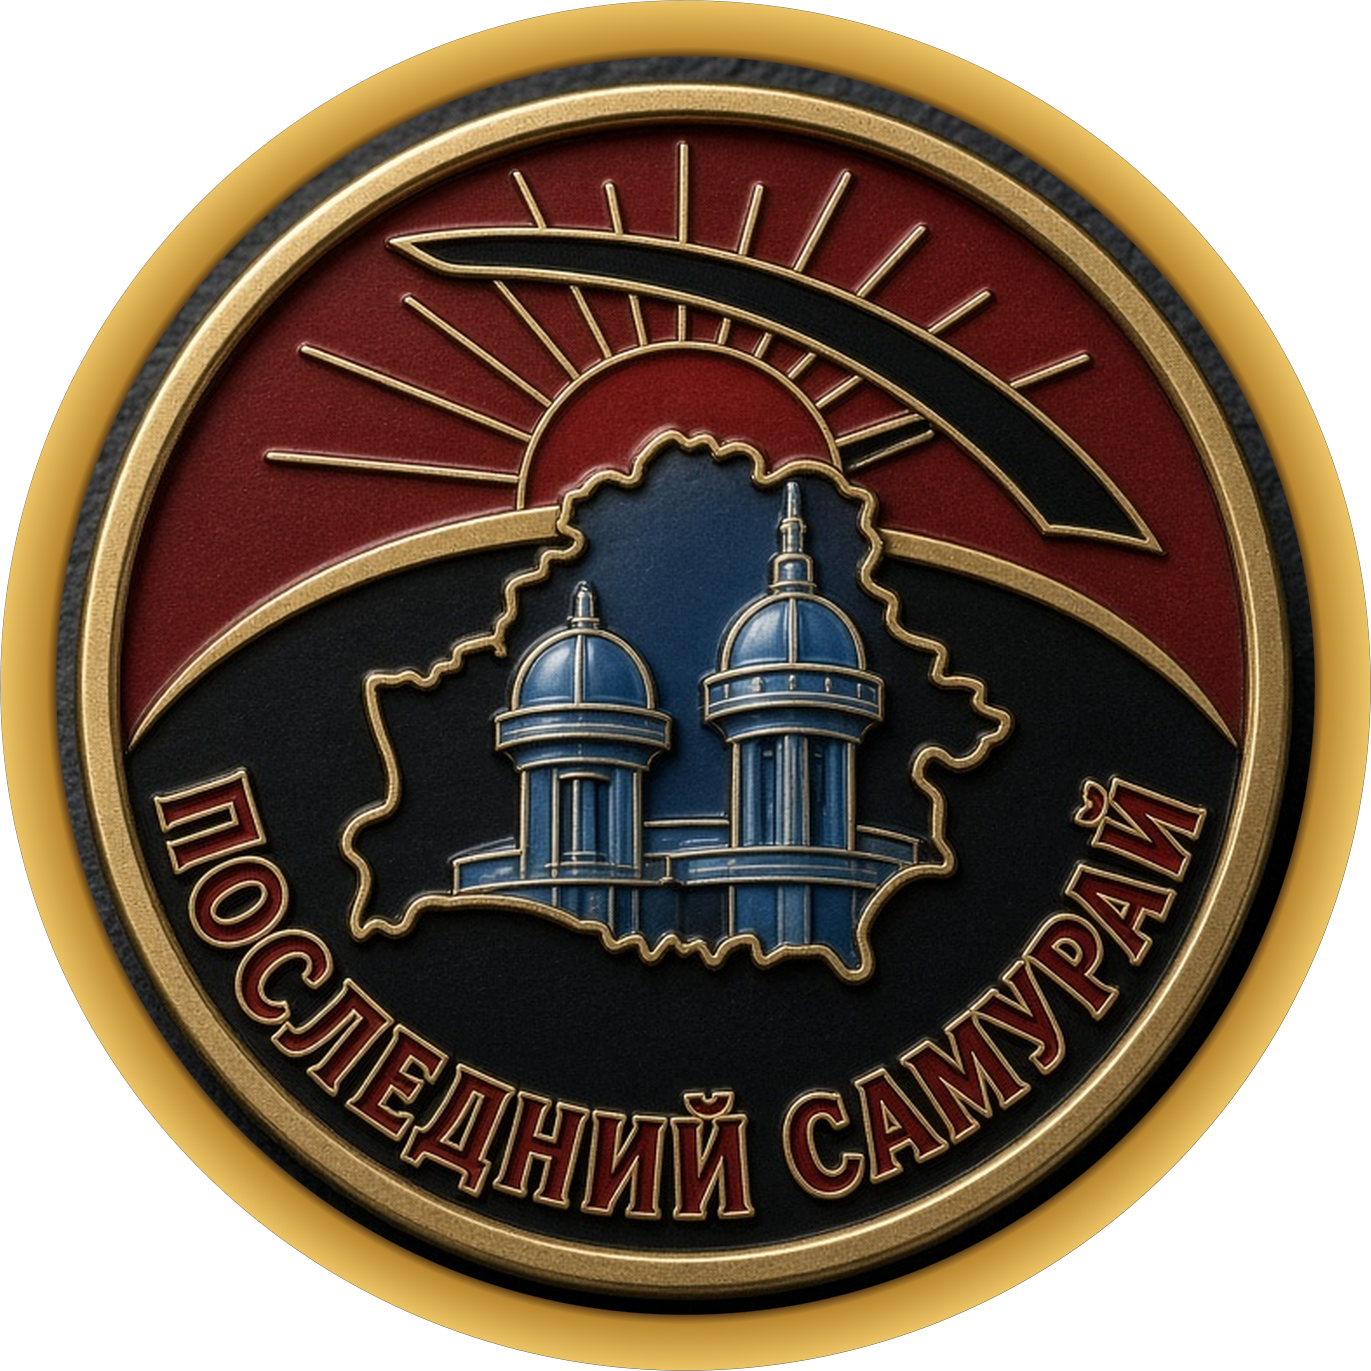
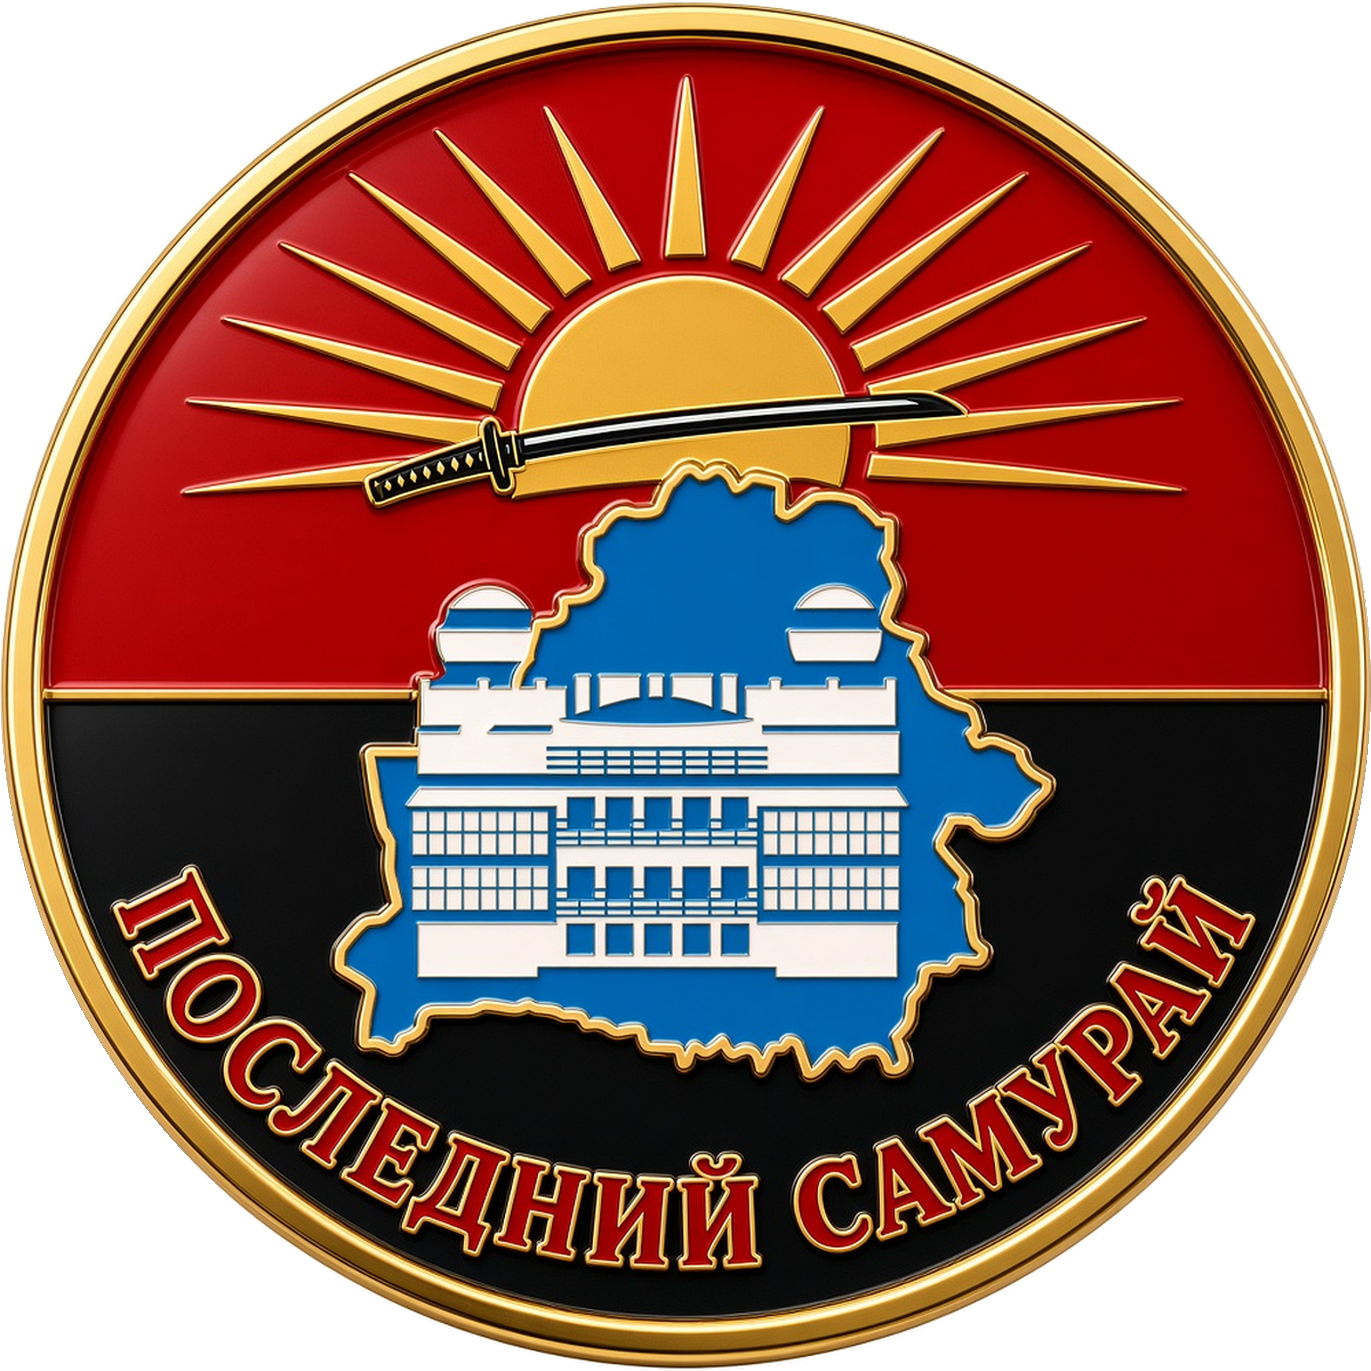
Regenerate Belhydromet badges 01–06 from TZ prompts (not old print dumps).
Keep the good AI 01-samurai style; new GenerateImage art for 02–06 with Belhydromet logo, circle crop only (no second rim overlay).

diff --git a/work/File/badges_print_ready/README.md b/work/File/badges_print_ready/README.md
@@ -11,10 +11,10 @@ https://github.com/Uladislaus/Computer-systems-and-networks/archive/refs/heads/c
 
 ## Формат (правила макета)
 - PNG с альфой: снаружи круга прозрачность (как KOT)
-- один кантик под макет — без второго обода поверх и без сжатия арта
-- Belhydromet / print-56mm: 1371×1371, 600 dpi (56 мм + 1 мм bleed)
+- один кантик из макета — постпроцесс только круглая маска, без второго обода и без ужатия арта
+- размер: 1371×1371 (56 мм + 1 мм bleed)
 
-## Имена = исходные ТЗ (восстановлены с print-56mm)
+## Перерисовка по ТЗ (GenerateImage + crop)
 
 ### `01`–`06` — первый пак Белгидромет (логотип в центре)
 | Файл | Фраза / фильм | Кантик |
@@ -26,25 +26,7 @@ https://github.com/Uladislaus/Computer-systems-and-networks/archive/refs/heads/c
 | `05-loh.png` | кто сдох — тот лох | серебро |
 | `06-diamond.png` | Бриллиантовая рука | золото |
 
-### `07`–`09`
-| Файл | Тема |
-|------|------|
-| `07-bladerunner.png` | Бегущий по лезвию |
-| `08-povestka-belhydromet.png` | Властелин повестки (Белгидромет) |
-| `09-kolobok.png` | колобок |
+Дубликаты старых имён: `12_posledniy_samuray` … `16_…`, `21_brilliantovaya_ruka`.
 
-### `10`–`12` — Властелин повестки (другие логотипы)
-| Файл | Организация |
-|------|-------------|
-| `10-povestka-volat.png` | МЗКТ / Волат |
-| `11-povestka-farnell.png` | Фарнелл |
-| `12-povestka-teploset.png` | минсккомунтеплосеть |
-
-### Дубликаты старых имён печати (байты = TZ-имена выше)
-`12_posledniy_samuray` ← 01, `13_pobeg_iz_shoushenka` ← 02, `14_krestnyy_otets` ← 03,
-`15_boytsovskiy_klub` ← 04, `16_kto_sdokh_tot_lokh` ← 05, `17_begushchiy_po_lezviyu` ← 07,
-`18_vlastelin_povestki` ← 08, `19_kolobok` ← 09, `20_vlastelin_povestki_volat` ← 10,
-`21_brilliantovaya_ruka` ← 06.
-
-### Ещё в папке (другие серии / портреты)
-`01_stirochka_gotova` … `11_hto_ya` — подарки, мемы, портреты (отдельная нумерация).
+### Дальше по очереди (ещё не перерисованы заново)
+`07-bladerunner` … `12-povestka-teploset` и остальные по списку ТЗ.
